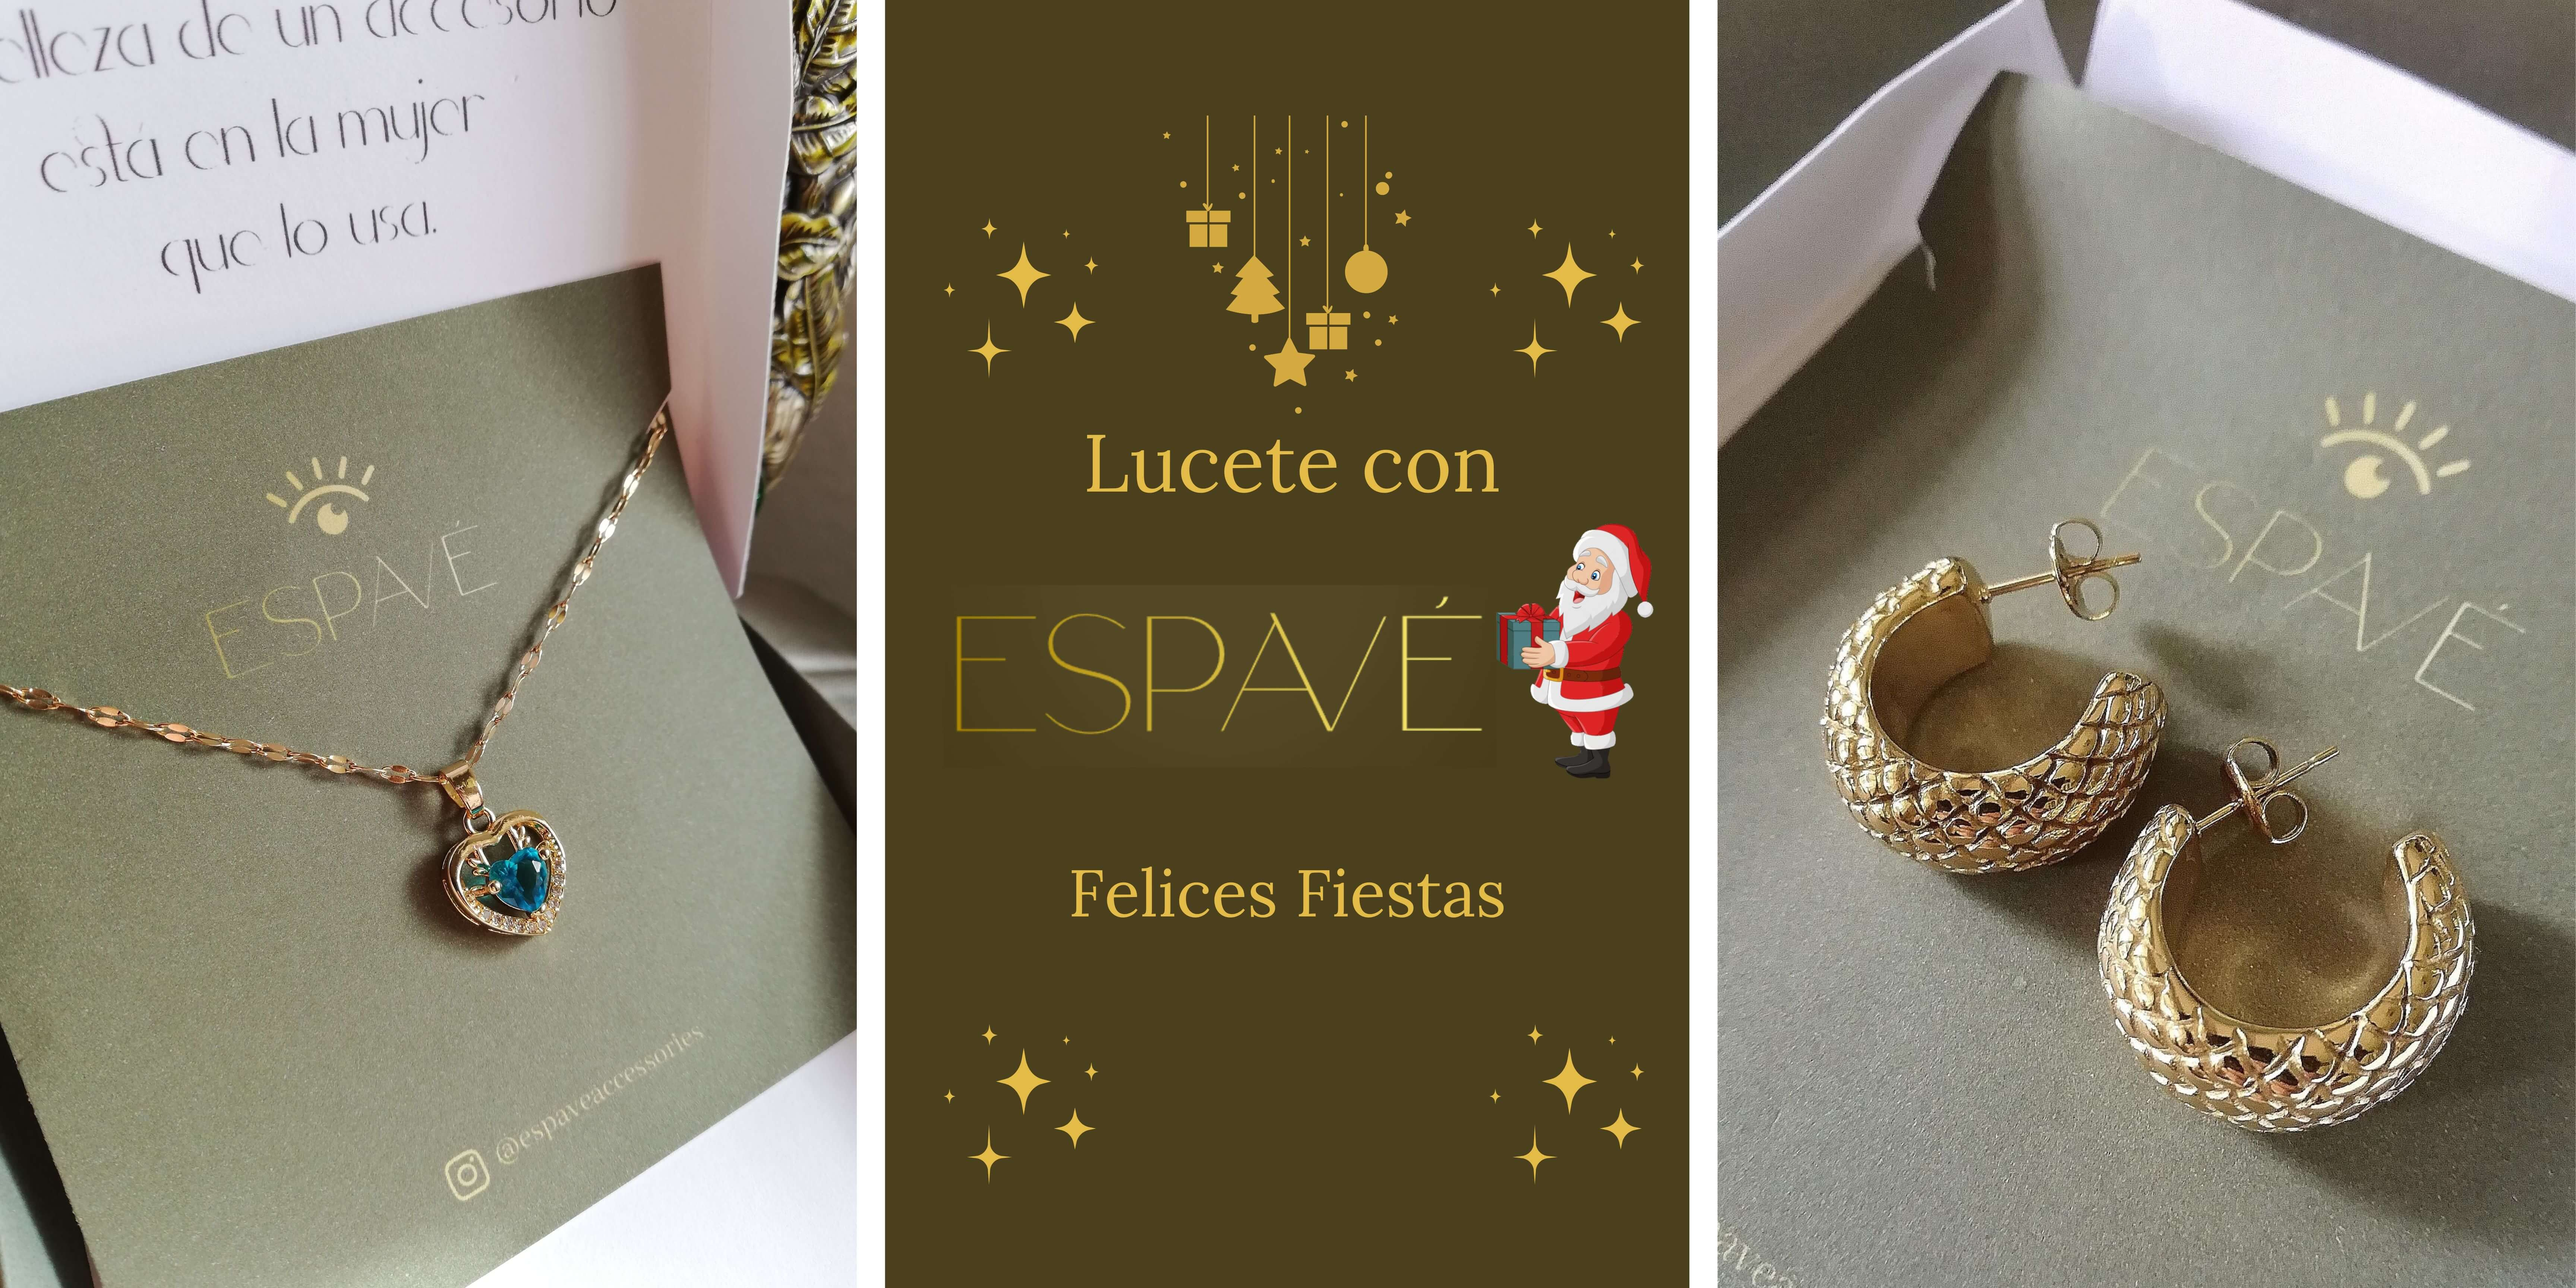
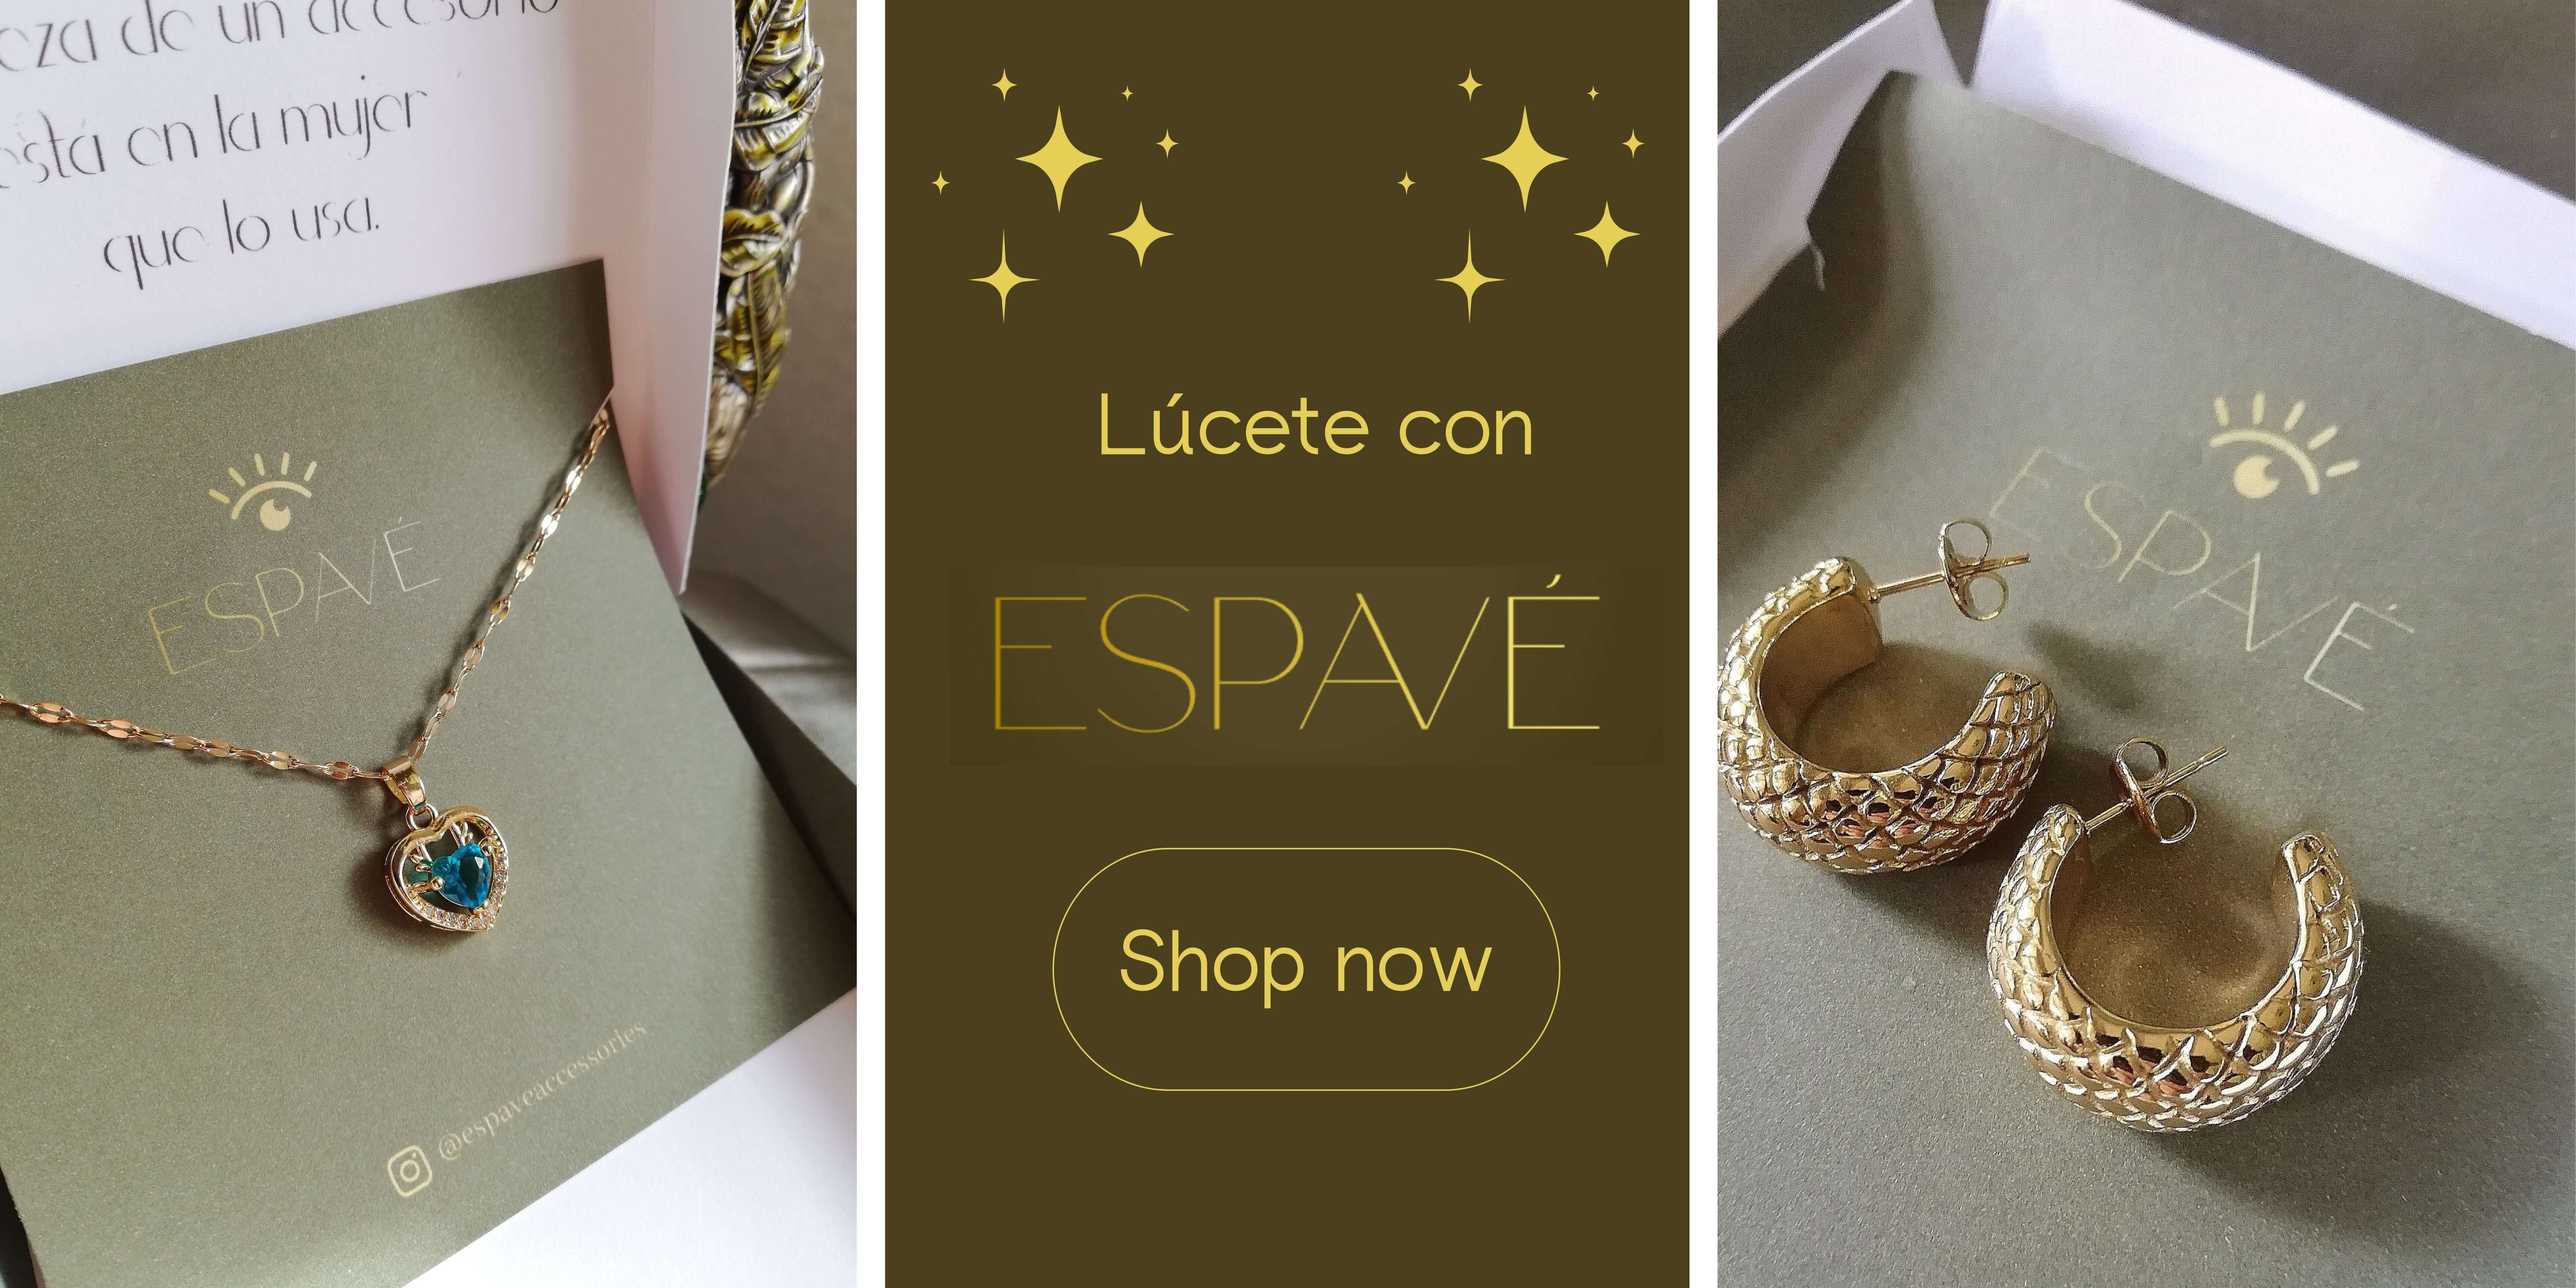
actualizar

diff --git a/index.html b/index.html
@@ -111,7 +111,7 @@
                     </button>
                     <div class="collapse navbar-collapse justify-content-between" id="navbarCollapse">
                         <div class="navbar-nav mr-auto py-0">
-                            <a href="index.html" class="nav-item nav-link active">INICIO 🎅🏻</a>
+                            <a href="index.html" class="nav-item nav-link active">INICIO </a>
                             <a href="shop.html" class="nav-item nav-link">PRODUCTOS </a>
                             <div class="only-moblie-espave">
                                 <div class="nav-item dropdown">
@@ -173,7 +173,7 @@
                     </a>
                 </div>
                 <div class="text-center mb-4">
-                    <p style="font-size: larger; margin: top 200px ;"> 🎅🏻Feliz Navidad!!🎅🏻 y prospero año nuevo 2023!! les desea Espavé💚✨Gracias por todo su apoyo 🤗  
+                    <p style="font-size: larger; margin: top 200px ;">Envíos a todo el país💚✨
                     </p>
                 </div>
              </div>
